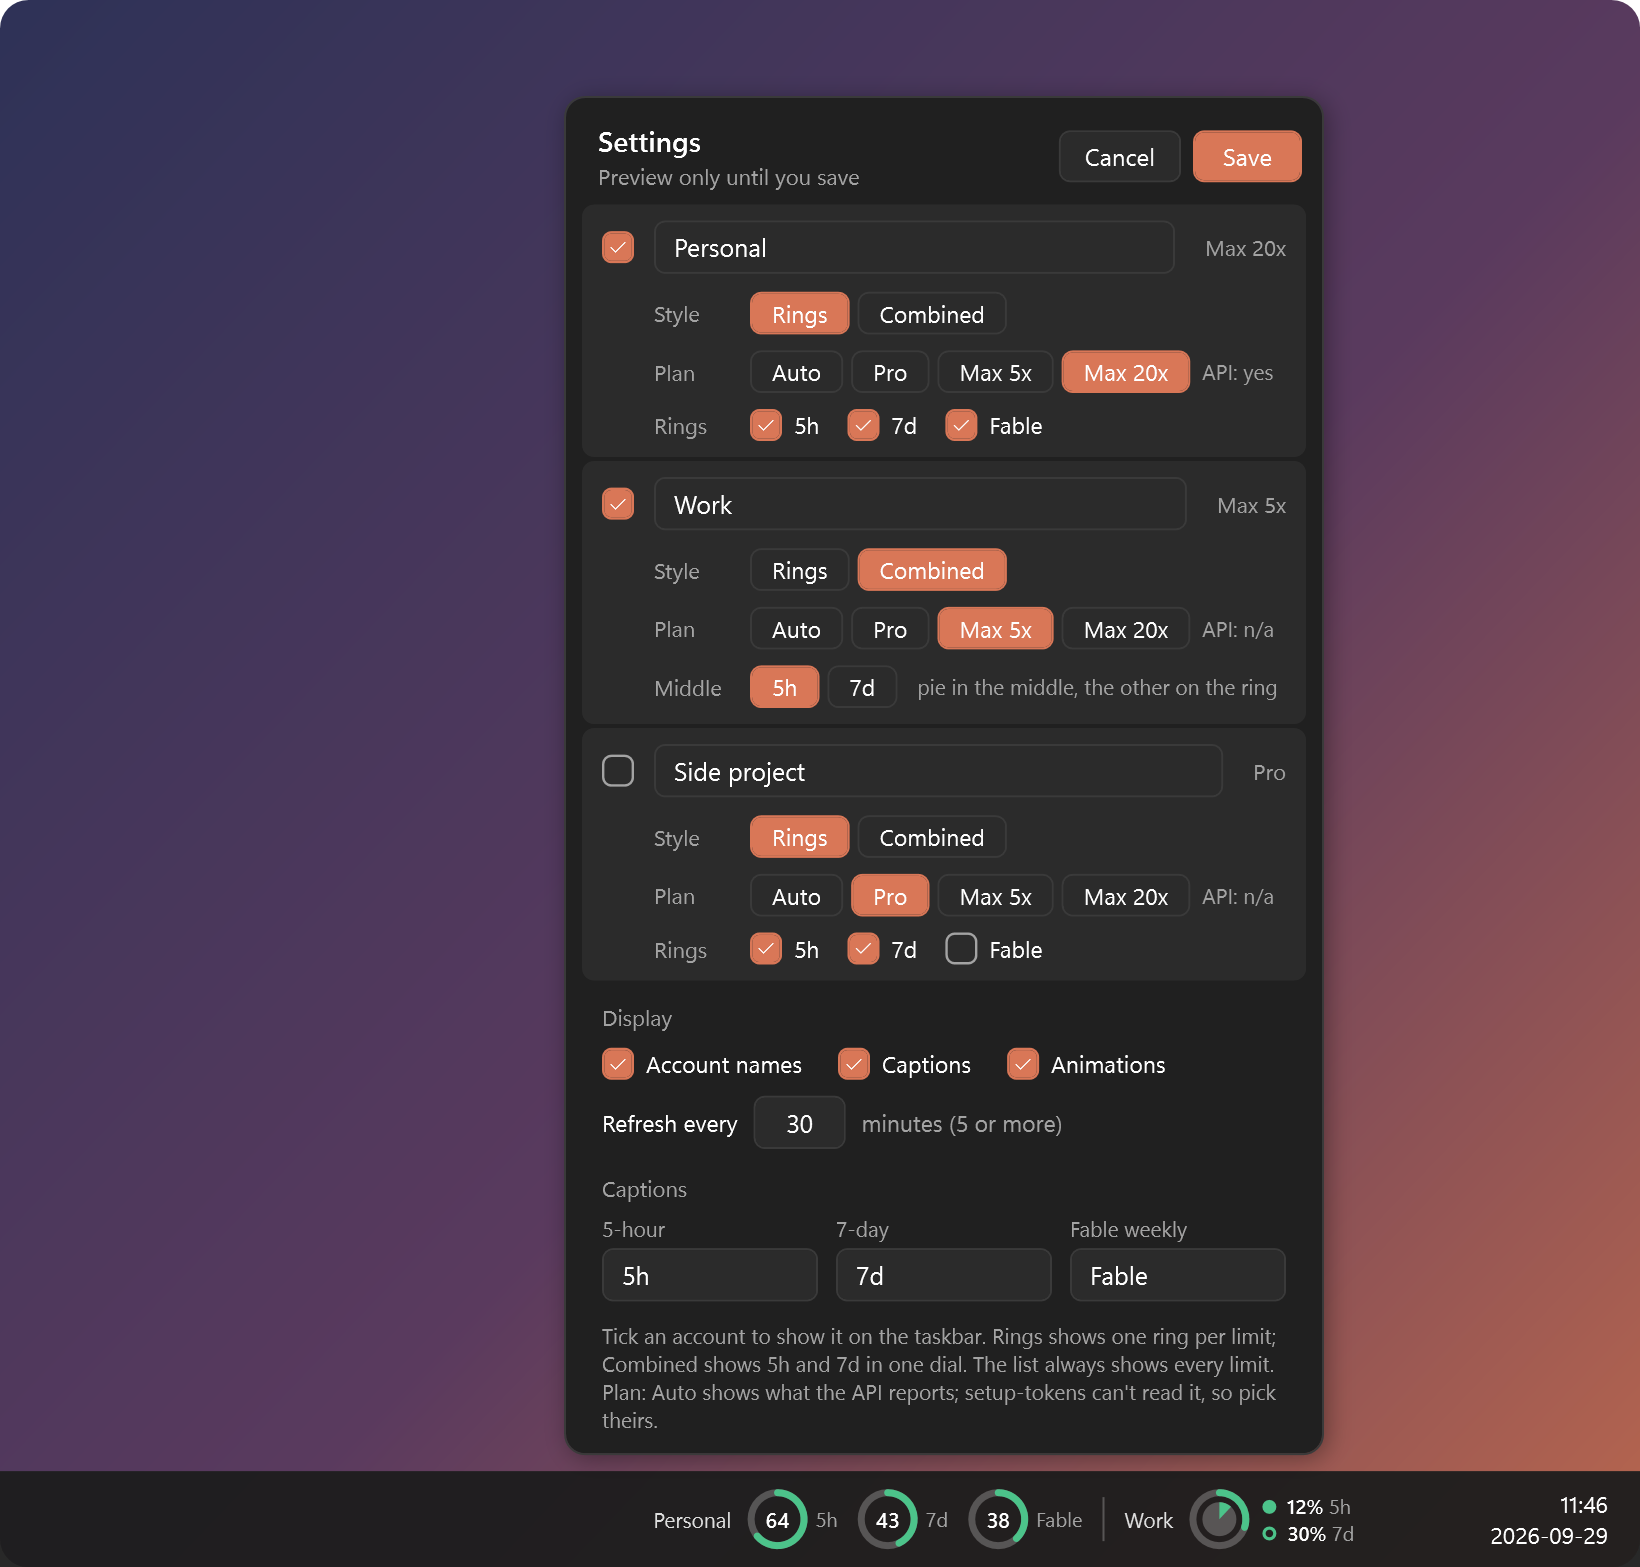
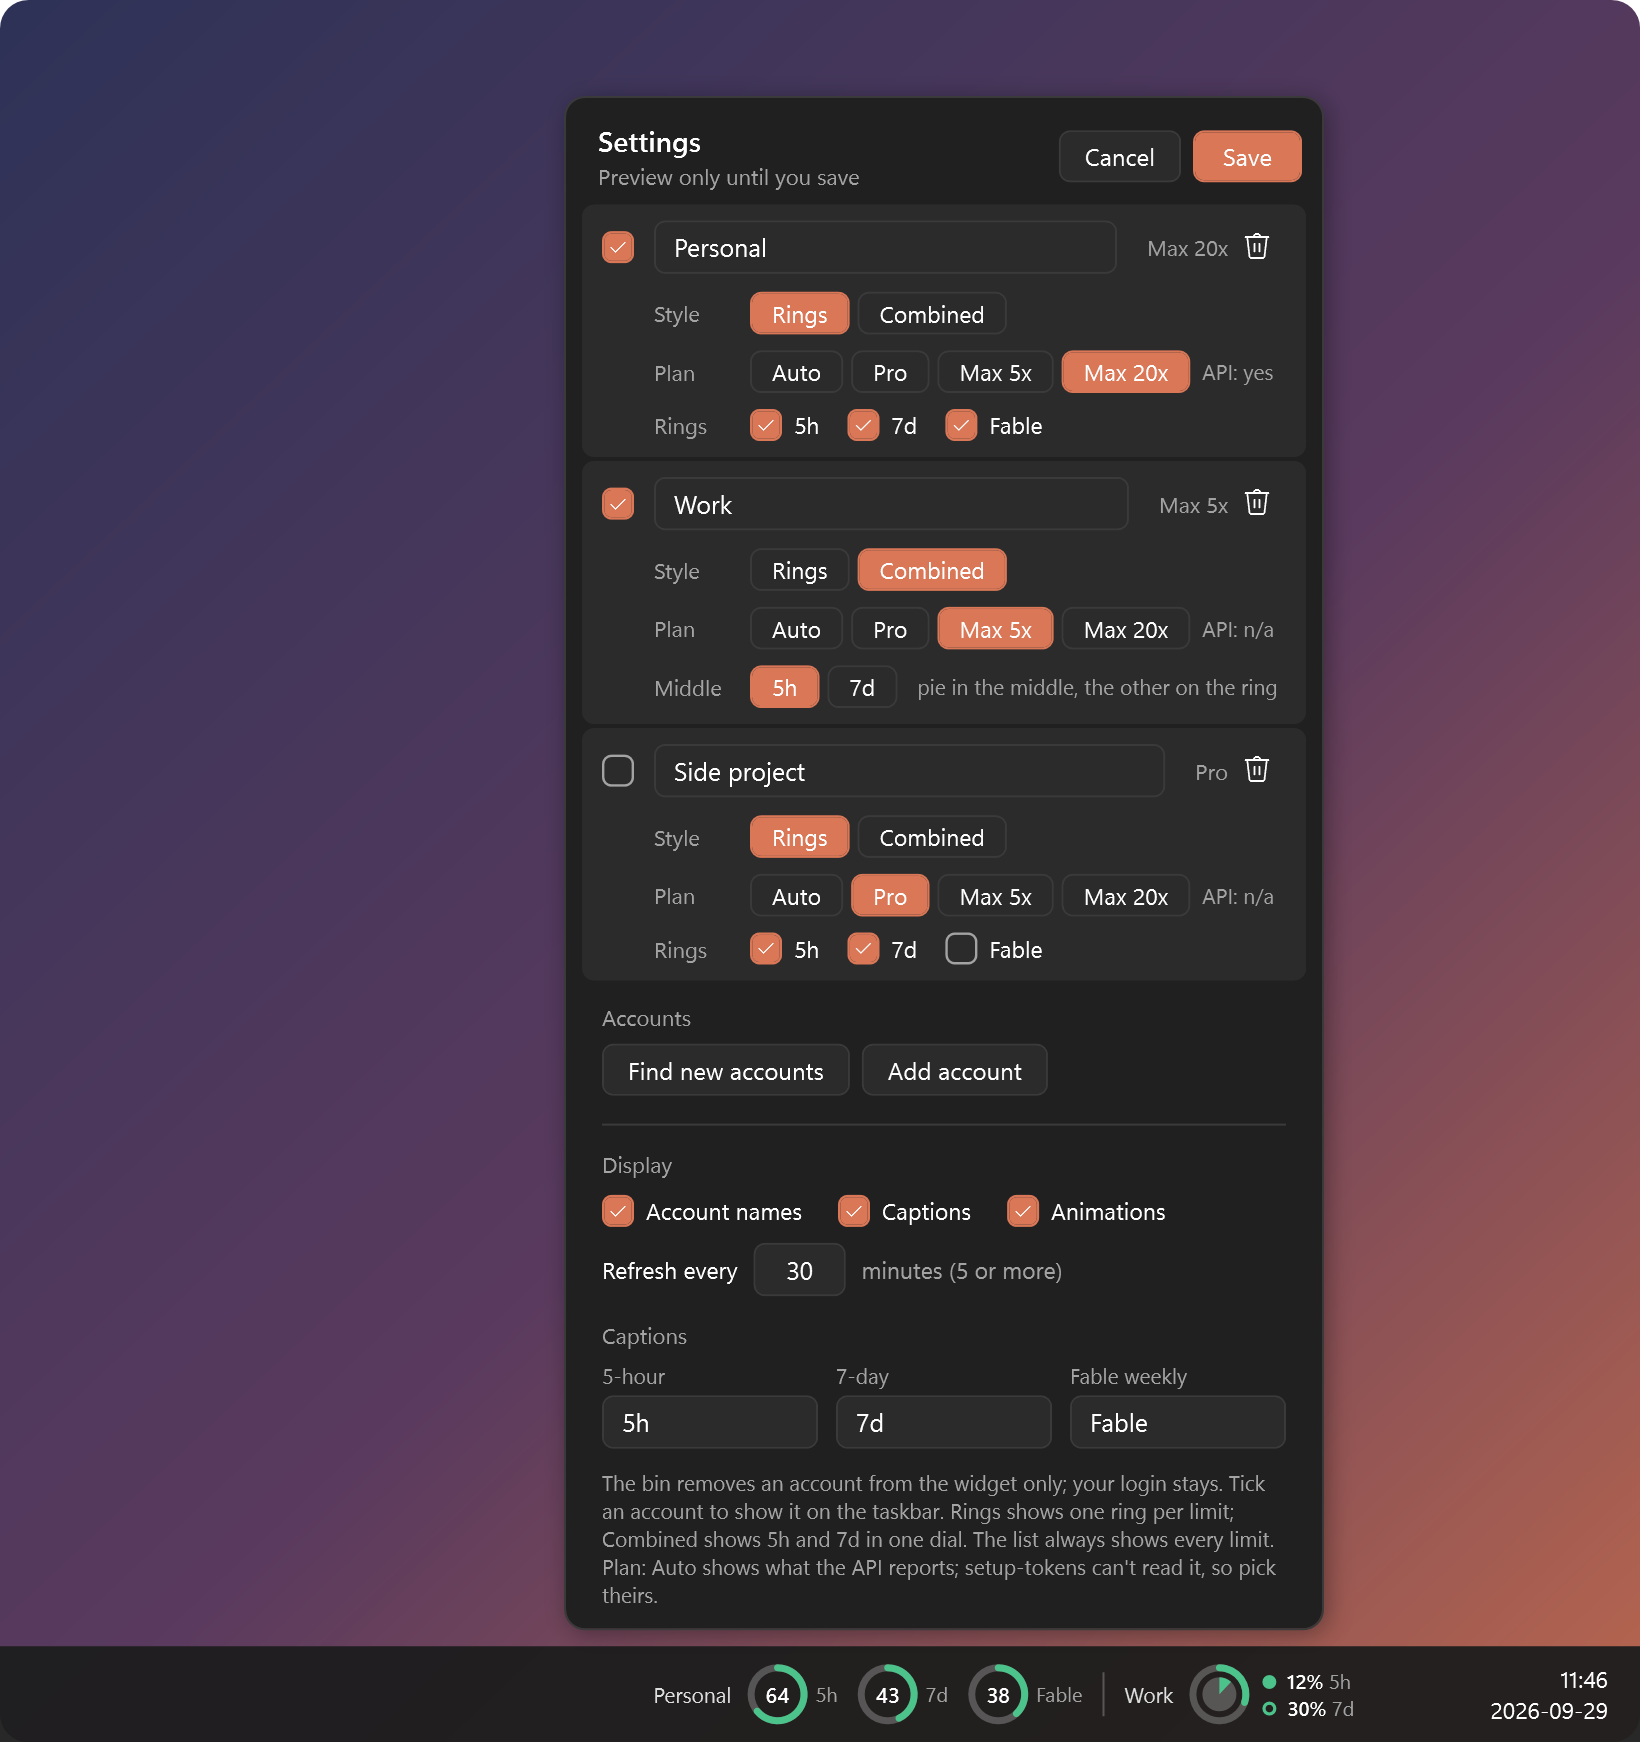
Settings: find, add and remove accounts; 1.4.0

diff --git a/README.md b/README.md
@@ -70,7 +70,7 @@ The widget finds accounts on its own:
 - **Claude Code logins.** It reads `%USERPROFILE%\.claude\.credentials.json`, which is where Claude Code keeps its login on Windows. It also checks any other `.claude*` folder in your user profile (for example one per account set up with `CLAUDE_CONFIG_DIR`). Accounts are named after the email they're logged in with.
 - **[xndr-claude](https://github.com/mrcsXndr/xndr-claude)** accounts, if it's installed.
 
-After you log in to another account, right-click the rings and choose **Scan for accounts**. If the same account turns up twice, you can hide one of them by adding `"hidden": true` to it in the config file (see below).
+You can also manage accounts from **Settings** (the cog): **Find new accounts** lists logins not added yet, **Add account** takes a name, a source (Claude Code login folder, xndr-claude account or env var) and a plan, and the bin removes one. Save keeps the changes. After you log in to another account, right-click the rings and choose **Scan for accounts**. If the same account turns up twice, you can hide one of them by adding `"hidden": true` to it in the config file (see below).
 
 <details>
 <summary>Other token sources (config file)</summary>

diff --git a/CHANGELOG.md b/CHANGELOG.md
@@ -3,6 +3,11 @@
 All notable changes to Claude Usage Widget. Versions follow [semantic versioning](https://semver.org/).
 Each version is a [GitHub release](https://github.com/mrcsXndr/claude-usage-widget/releases) with an installer.
 
+## [1.4.0] - 2026-10-10
+
+### Added
+- Account management in Settings. **Find new accounts** re-runs discovery and lists Claude Code logins and xndr-claude accounts that aren't in the widget yet; tick the ones to add (the plan comes from the login, else xndr-claude, else a picker). **Add account** takes a name, a source (Claude Code login folder with a Browse button, xndr-claude account, or env var name) and a plan. A bin on each account removes it, after a confirm. Like every Settings edit these apply on Save and are dropped on Cancel. Only references are stored; tokens are never shown.
+
 ## [1.3.0] - 2026-10-10
 
 ### Changed

diff --git a/CLAUDE.md b/CLAUDE.md
@@ -3,7 +3,7 @@
 Claude 5h / 7d / Fable usage as rings on the Windows 11 taskbar, with a per-account list and settings on click.
 It's plain PowerShell 5.1 + WPF, with no dependencies. Public repo; each version ships as a GitHub release with an installer.
 
-Status (2026-10-10): **v1.3.0 released**. The project is feature-complete for now; see "Open items" below.
+Status (2026-10-10): **v1.4.0 released** (Settings: find / add / remove accounts; the Browse folder dialog sets `$script:modal` so the popup's Deactivated handler doesn't close Settings). The project is feature-complete for now; see "Open items" below.
 
 ## Layout
 
